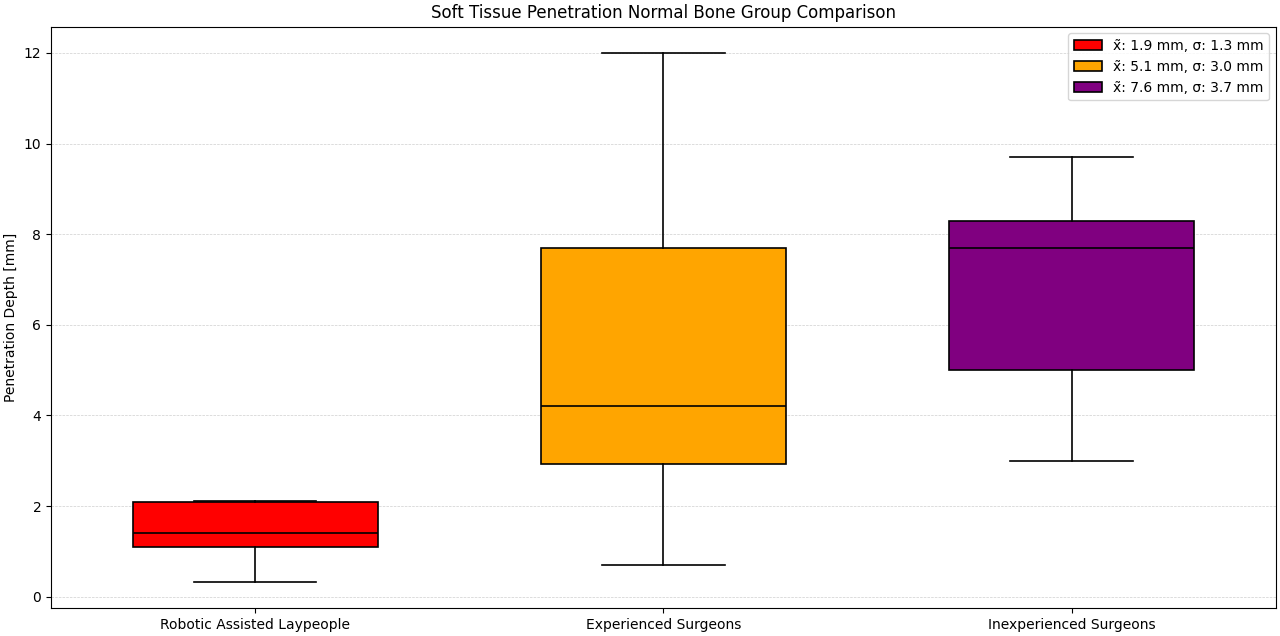
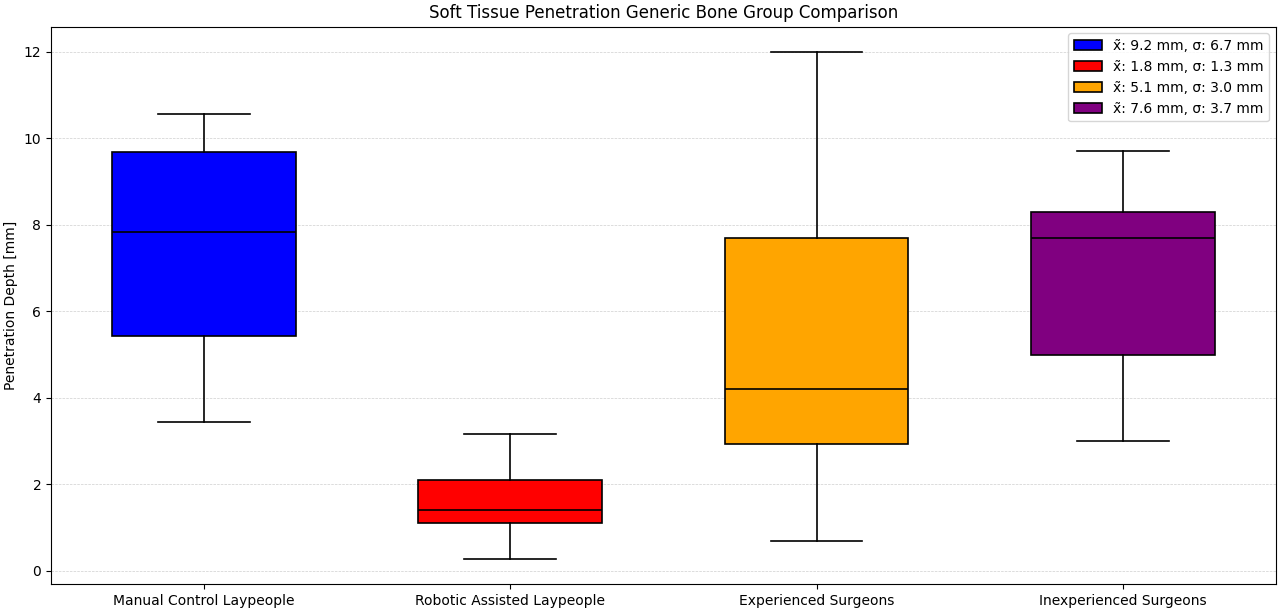
finished plots

diff --git a/drill_control_GP/box_plot_user_groups.py b/drill_control_GP/box_plot_user_groups.py
@@ -10,16 +10,24 @@ def drop_NA(data):
 
 # Load CSV file
 data = pd.read_csv(r'C:\Users\drnil\OneDrive - ETH Zurich\ETH\Msc\Data_Analysis\data\Drill_User_Study - Test Group.csv', encoding='ISO-8859-1',na_values=["NA","","#DIV/0!"])
+data_manual = pd.read_csv(r'C:\Users\drnil\OneDrive - ETH Zurich\ETH\Msc\Data_Analysis\data\Drill_User_Study - Control Group.csv', encoding='ISO-8859-1',na_values=["NA","","#DIV/0!"])
 
 sp_data = data[['ID','SP1 [mm]','SP2 [mm]','SP3 [mm]']]
+sp_data_manual = data_manual[['ID','SP1 [mm]','SP2 [mm]','SP3 [mm]']]
 
 # filter the data with the desired strategy
 sp_data_filtered = drop_NA(sp_data)
+sp_data_filtered_manual = drop_NA(sp_data_manual)
 
 # get series per bone type for robotic assistance
 robot_generic = sp_data_filtered['SP1 [mm]']
+manual_generic = sp_data_filtered_manual['SP1 [mm]']
+
 robot_femur   = sp_data_filtered['SP2 [mm]']
+manual_femur = sp_data_filtered_manual['SP2 [mm]']
+
 robot_ulna   = sp_data_filtered['SP3 [mm]']
+manual_ulna = sp_data_filtered_manual['SP3 [mm]']
 
 snb_values_experienced = np.array([
         4.7, 2.7, 9.3, 6.0, 12.0, 5.3, 2.7, 3.3, 3.0, 3.0,
@@ -34,15 +42,15 @@ snb_values_inexperienced = np.array([
 fig, ax = plt.subplots(layout="constrained", figsize=(6,4))
 
 bp = ax.boxplot(
-    [robot_generic, snb_values_experienced, snb_values_inexperienced],
-    labels=["Robotic Assisted Laypeople", "Experienced Surgeons", "Inexperienced Surgeons"],
+    [manual_generic, robot_generic, snb_values_experienced, snb_values_inexperienced],
+    labels=["Manual Control Laypeople","Robotic Assisted Laypeople", "Experienced Surgeons", "Inexperienced Surgeons"],
     patch_artist=True,          # allows coloring
     widths=0.6,
     showfliers=False,
 )
 
 # Colors + outlines
-colors = ["red", "orange", "purple"]
+colors = ["blue","red", "orange", "purple"]
 for patch, c in zip(bp["boxes"], colors):
     patch.set_facecolor(c)
     patch.set_edgecolor("black")
@@ -54,12 +62,12 @@ for k in ["whiskers", "caps", "medians"]:
         line.set_linewidth(1.2)
 
 ax.set_ylabel("Penetration Depth [mm]")
-ax.set_title("Soft Tissue Penetration Normal Bone Group Comparison")
+ax.set_title("Soft Tissue Penetration Generic Bone Group Comparison")
 ax.grid(axis="y", linestyle="--", linewidth=0.5, alpha=0.6)
 #ax.legend([bp["boxes"][0], bp["boxes"][1], bp["boxes"][2],bp["boxes"][3]], ["Manual Control (MC)", "Robotic Assistance", "MC Experienced Surgeons", "MC Inexperienced Surgeon"], loc="upper right")
 
 # Calculate median and standard deviation for each dataset
-data_sets = [robot_generic, snb_values_experienced, snb_values_inexperienced]
+data_sets = [manual_generic,robot_generic, snb_values_experienced, snb_values_inexperienced]
 
 legend_labels = []
 for dataset in data_sets:
@@ -67,13 +75,13 @@ for dataset in data_sets:
     std_val = np.std(dataset)
     legend_labels.append(f"x̃: {mean_val:.1f} mm, σ: {std_val:.1f} mm")
 
-ax.legend([bp["boxes"][0], bp["boxes"][1], bp["boxes"][2]], 
+ax.legend([bp["boxes"][0], bp["boxes"][1], bp["boxes"][2], bp["boxes"][3]], 
           legend_labels, loc="upper right")
 
 
 # print median and std for each bone type
 print("Mean, Median and Standard Deviation for each user group:")
-for label, dataset in zip(["Robotic Assisted Laypeople", "Surgeons Experienced", "Surgeons Inexperienced"], data_sets
+for label, dataset in zip(["Manual Control Laypeople","Robotic Assisted Laypeople", "Surgeons Experienced", "Surgeons Inexperienced"], data_sets
     ):
     mean_val = np.mean(dataset)
     median_val = np.median(dataset)

diff --git a/drill_control_GP/t_test.py b/drill_control_GP/t_test.py
@@ -50,17 +50,23 @@ def welch_t_test(test_group, control_group):
         print(f"We fail to reject the null hypothesis (p >= {alpha})")
         print("There is no significant difference between the two groups")
 
+# drops all the rows which have NA in them
+def drop_NA(data):
+    data_filtered = data.dropna().reset_index(drop=True)
+    return data_filtered
 
 # Load CSV file
-data = pd.read_csv('Data/Drill_User_Study_Adapted_sheet.csv', encoding='ISO-8859-1')
+data = pd.read_csv(r'C:\Users\drnil\OneDrive - ETH Zurich\ETH\Msc\Data_Analysis\data\Drill_User_Study - Test Group.csv', encoding='ISO-8859-1',na_values=["NA","","#DIV/0!"])
 
-# print("All column names:")
-# print(data.columns.tolist())
-# Get series per controller
-manual = data.loc[data['Controller Activated']==0, 'Max_orientation_error [Â°]'].dropna()
-robot  = data.loc[data['Controller Activated']==1, 'Max_orientation_error [Â°]'].dropna()
+sp_data = data[['ID','SP1 [mm]','SP2 [mm]','SP3 [mm]']]
 
-robot_no_outliers = robot[(robot - np.median(robot)).abs() <= 1.5 * np.std(robot)]
+# filter the data with the desired strategy
+sp_data_filtered = drop_NA(sp_data)
+
+# get series per bone type for robotic assistance
+robot_generic = sp_data_filtered['SP1 [mm]']
+robot_femur   = sp_data_filtered['SP2 [mm]']
+robot_ulna   = sp_data_filtered['SP3 [mm]']
 
 snb_values_experienced = np.array([
         4.7, 2.7, 9.3, 6.0, 12.0, 5.3, 2.7, 3.3, 3.0, 3.0,
@@ -76,8 +82,8 @@ snb_values_inexperienced = np.array([
 test = "welch"  # options: "one-sided", "welch"
 
 if test == "one-sided":
-    one_sided_t_test(robot, manual)
+    one_sided_t_test(robot_generic, snb_values_experienced)
 elif test == "welch":
-    welch_t_test(robot_no_outliers, manual)
+    welch_t_test(robot_generic, snb_values_experienced)
 else:
     print("Invalid test type. Please choose 'one-sided' or 'welch'.")

diff --git a/drill_control_GP/box_plot_bone_types.py b/drill_control_GP/box_plot_bone_types.py
@@ -14,7 +14,7 @@ data_robot = pd.read_csv(r'C:\Users\drnil\OneDrive - ETH Zurich\ETH\Msc\Data_Ana
 data_manual = pd.read_csv(r'C:\Users\drnil\OneDrive - ETH Zurich\ETH\Msc\Data_Analysis\data\Drill_User_Study - Control Group.csv', encoding='ISO-8859-1',na_values=["NA","","#DIV/0!"])
 
 sp_data = data_robot[['ID','SP1 [mm]','SP2 [mm]','SP3 [mm]']]
-sp_data_manual = data_manual[['ID','SP1','SP2','SP3']]
+sp_data_manual = data_manual[['ID','SP1 [mm]','SP2 [mm]','SP3 [mm]']]
 
 # filter the data with the desired strategy
 sp_data_filtered = drop_NA(sp_data)
@@ -22,13 +22,13 @@ sp_data_filtered_manual = drop_NA(sp_data_manual)
 
 # get series per bone type for robotic assistance
 robot_generic = sp_data_filtered['SP1 [mm]']
-manual_generic = sp_data_filtered_manual['SP1']
+manual_generic = sp_data_filtered_manual['SP1 [mm]']
 
 robot_femur   = sp_data_filtered['SP2 [mm]']
-manual_femur = sp_data_filtered_manual['SP2']
+manual_femur = sp_data_filtered_manual['SP2 [mm]']
 
 robot_ulna   = sp_data_filtered['SP3 [mm]']
-manual_ulna = sp_data_filtered_manual['SP3']
+manual_ulna = sp_data_filtered_manual['SP3 [mm]']
 
 snb_values_experienced = np.array([
         4.7, 2.7, 9.3, 6.0, 12.0, 5.3, 2.7, 3.3, 3.0, 3.0,

diff --git a/drill_control_GP/box_plot_orientation_error.py b/drill_control_GP/box_plot_orientation_error.py
@@ -81,4 +81,4 @@ for label, dataset in zip(["Generic", "Femur", "Tibia"], data_sets
     print(f"{label}: Mean = {mean_val:.2f} mm, Median = {median_val:.2f} mm, Standard Deviation = {std_val:.2f} mm")
 
 
-plt.show()
+plt.show()  
